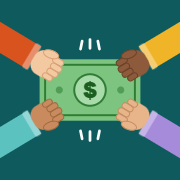
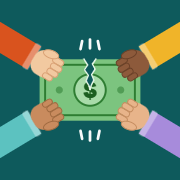
Ícono: el billete se rompe desde arriba hasta la mitad

Changed region(s): [[0.4444, 0.3056, 0.5556, 0.5]]

diff --git a/sw.js b/sw.js
@@ -1,7 +1,7 @@
 // Service worker: guarda la app para usarla sin conexión.
 // Con internet, la página siempre se pide al servidor (así cada cambio publicado aparece al abrir la app).
 // Sin internet, se usa la copia guardada. Al publicar cambios, subí CACHE_VERSION y APP_VERSION en index.html.
-const CACHE_VERSION = "cuentas-pesca-v9";
+const CACHE_VERSION = "cuentas-pesca-v10";
 const FONT_CACHE = "cuentas-pesca-fuentes";
 const NETWORK_TIMEOUT_MS = 4000;
 const APP_FILES = [

diff --git a/index.html b/index.html
@@ -361,7 +361,7 @@ td + td, th + th { padding-left: 10px; }
 <script>
 (function () {
   "use strict";
-  const APP_VERSION = "9"; // subirla junto con CACHE_VERSION de sw.js al publicar
+  const APP_VERSION = "10"; // subirla junto con CACHE_VERSION de sw.js al publicar
   const STORAGE_KEY = "cuentas-pesca-v1";
   const MIN_PEOPLE = 2, MAX_PEOPLE = 5;
   const PERSON_COLORS = ["#0e7c86", "#d9531e", "#6b8e23", "#8a5cc2", "#c2930e"];
